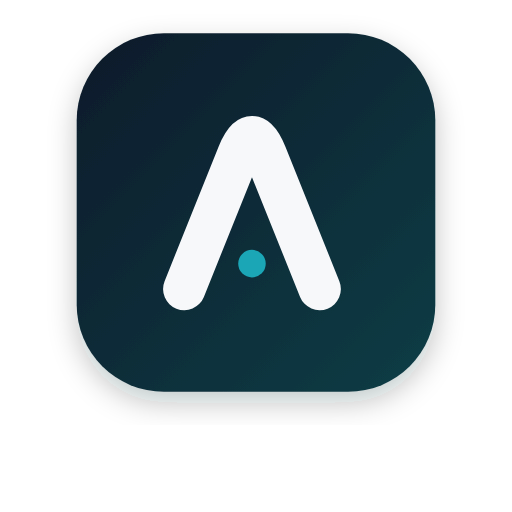
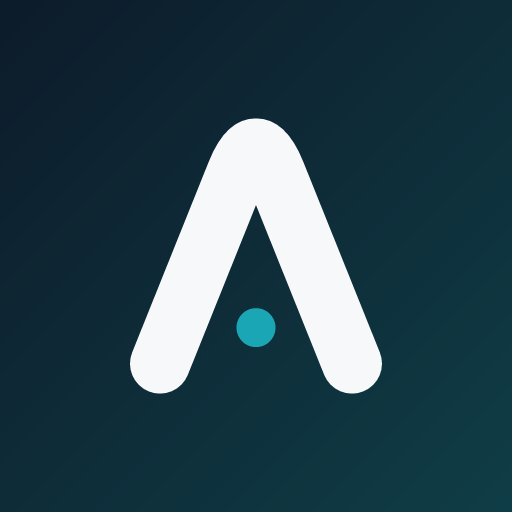
Ícone do app centralizado + edição manual da transcrição
Ícone (item 1): o app icon tinha sombra inferior e margem transparente, o que
desbalanceava o bounding box e fazia o launcher subir o 'A'. Agora é full-bleed
(fundo preenche todo o canvas, sem sombra) com o 'A' centralizado — o SO aplica
a própria máscara. Regenerados alfredo-icon-192/512, apple-touch-icon e favicons
a partir do SVG. manifest.json movido para public/ para ser servido em produção
(o Vite só publica public/), habilitando o ícone maskable do PWA.

Transcrição (item 2): nova edição manual do texto completo na aba 'Transcrição
Completa' — botão Editar abre um textarea com o conteúdo integral; Salvar grava
via setMeetings (persistido no Supabase pelo sync existente) e re-renderiza; o
modo de edição é resetado ao trocar de reunião. Validado end-to-end no preview.

Indicadores (item 3): revisados — duration é sempre em segundos, e taxa de
conclusão, médias e percentuais estão corretos (conferido com dados de amostra).
Sem alteração de código necessária.

Claude-Session: https://claude.ai/code/session_012b3UX7riBiCCCxpme13d8D

diff --git a/src/App.tsx b/src/App.tsx
@@ -723,6 +723,11 @@ export default function App() {
   // Active meeting context
   const selectedMeeting = meetings.find(m => m.id === selectedMeetingId) || null;
 
+  // Sai do modo de edição de transcrição ao trocar de reunião (evita draft preso).
+  useEffect(() => {
+    setIsEditingTranscript(false);
+  }, [selectedMeetingId]);
+
   // Triforce logo loading state
   const [logoBase64, setLogoBase64] = useState<string>("");
 
@@ -784,6 +789,9 @@ export default function App() {
 
   // UI state
   const [activeTab, setActiveTab] = useState<"transcript" | "summary">("summary");
+  // Edição manual da transcrição completa
+  const [isEditingTranscript, setIsEditingTranscript] = useState(false);
+  const [transcriptDraft, setTranscriptDraft] = useState("");
   const [searchQuery, setSearchQuery] = useState("");
   const [selectedTagFilter, setSelectedTagFilter] = useState<string | null>(null);
   
@@ -3159,6 +3167,54 @@ Origem do áudio: Supabase Storage (${storagePath})
                       )}
 
                       <div className="bg-white border border-alfredo-border rounded-xl p-6 shadow-inner">
+                        <div className="flex items-center justify-between gap-3 mb-4 pb-3 border-b border-alfredo-border">
+                          <h4 className="text-xs font-bold text-alfredo-navy uppercase tracking-wider">Transcrição</h4>
+                          {isEditingTranscript ? (
+                            <div className="flex items-center gap-2 shrink-0">
+                              <button
+                                type="button"
+                                onClick={() => setIsEditingTranscript(false)}
+                                className="inline-flex items-center gap-1.5 rounded-lg border border-alfredo-border bg-white px-3 py-1.5 text-[11px] font-semibold text-alfredo-graphite transition-colors hover:text-alfredo-navy cursor-pointer"
+                              >
+                                <X size={13} /> Cancelar
+                              </button>
+                              <button
+                                type="button"
+                                onClick={() => {
+                                  const txt = transcriptDraft;
+                                  setMeetings(prev =>
+                                    prev.map(m => (m.id === selectedMeeting.id ? { ...m, transcript: txt } : m)),
+                                  );
+                                  setIsEditingTranscript(false);
+                                }}
+                                className="inline-flex items-center gap-1.5 rounded-lg bg-alfredo-teal px-3 py-1.5 text-[11px] font-bold text-alfredo-navy transition-all hover:bg-alfredo-teal active:scale-[0.98] cursor-pointer"
+                              >
+                                <Check size={13} /> Salvar
+                              </button>
+                            </div>
+                          ) : (
+                            <button
+                              type="button"
+                              onClick={() => {
+                                setTranscriptDraft(selectedMeeting.transcript || "");
+                                setIsEditingTranscript(true);
+                              }}
+                              className="inline-flex items-center gap-1.5 rounded-lg border border-alfredo-border bg-alfredo-offwhite px-3 py-1.5 text-[11px] font-semibold text-alfredo-graphite transition-colors hover:border-alfredo-teal/40 hover:text-alfredo-navy cursor-pointer shrink-0"
+                            >
+                              <Edit2 size={13} /> Editar
+                            </button>
+                          )}
+                        </div>
+                        {isEditingTranscript ? (
+                          <textarea
+                            value={transcriptDraft}
+                            onChange={(e) => setTranscriptDraft(e.target.value)}
+                            rows={22}
+                            spellCheck
+                            className="custom-scrollbar w-full resize-y rounded-lg border border-alfredo-border bg-alfredo-offwhite p-4 font-mono text-sm leading-relaxed text-alfredo-graphite focus:border-alfredo-teal/60 focus:outline-none"
+                            placeholder="Edite o texto completo da transcrição. Use uma linha em branco para separar as falas e o formato 'Nome: fala' para manter os locutores."
+                          />
+                        ) : (
                         <div className="prose prose-invert max-w-none">
                           {formatTranscriptText(selectedMeeting.transcript).split("\n\n").map((para, i) => {
                             // Extract speaker name dynamically
@@ -3216,6 +3272,7 @@ Origem do áudio: Supabase Storage (${storagePath})
                             );
                           })}
                         </div>
+                        )}
                       </div>
                     </div>
                   )}
